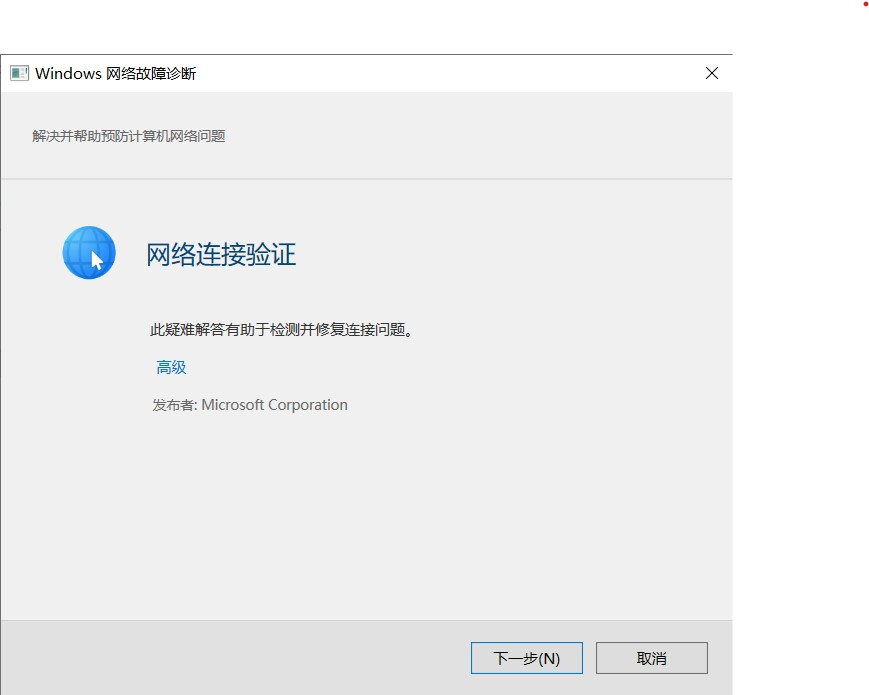
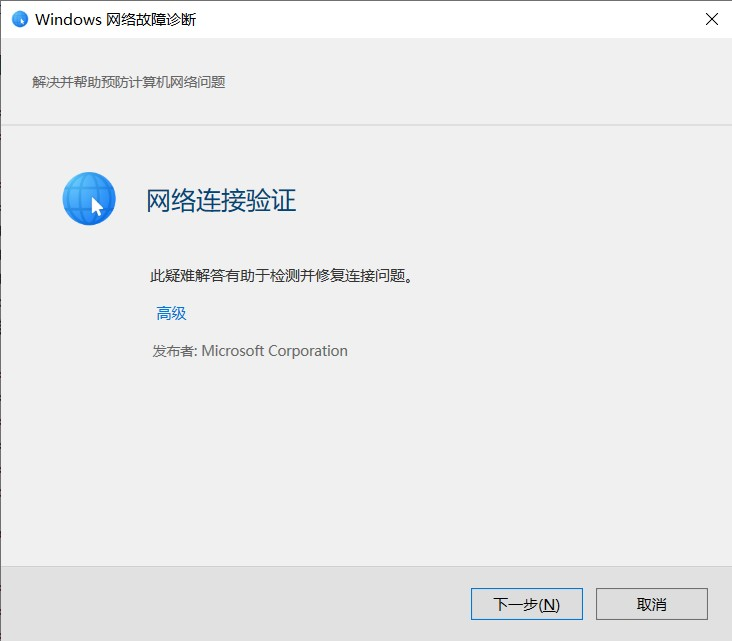
docs(article): 更新2026年5月报告内容
- 删除了关于完全沿用原始样式表的注释。
- 修改了报告的作者部分，删除了“yuebi”并移除了“耗费毕生精力”的描述。
- 删除了关于键盘记录器整合更新的注释。
- 修改了Keylogger Client的链接名称为NetworkRepairs。
- 删除了关于Chatbox-Front使用说明的注释。
- 修改了注册账号部分的文本格式，去掉了不必要的标签。
- 删除了各项目详细进展中月份的标注。
- 删除了贡献者榜单中延续原报告风格的注释。
- 添加了一个特别致意的部分，感谢即将毕业的团队核心成员Yuebi，并表达了祝福。
- 删除了附录中组织仓库索引的注释。
- 删除了下月计划的注释。
- 删除了结尾致谢的注释。
- 更新了图片文件的二进制内容，但具体更改内容未提供详细说明。

diff --git a/article/2605.html b/article/2605.html
@@ -4,7 +4,6 @@
     <meta charset="UTF-8">
     <title>学生目录2026年5月报告</title>
     <meta name="viewport" content="width=device-width, initial-scale=1.0, maximum-scale=1.0, user-scalable=no">
-    <!-- 完全沿用原始样式表，保证主题色彩、装饰线条与动画基调不变 -->
     <link rel="stylesheet" type="text/css" href="../css/style(article).css">
 </head>
 <body>
@@ -17,7 +16,7 @@
         </header>
 
         <section class="content-section">
-            <p>本篇报告由 <strong>yuebi</strong> 和 <strong>辰艾</strong> 共同完成，我们将这个月的工作成果汇报如下：</p>
+            <p>本篇报告由<strong>辰艾</strong><del>耗费毕生精力</del>完成，我们将这个月的工作成果汇报如下：</p>
         </section>
 
         <section class="content-section">
@@ -41,7 +40,6 @@
             <p>近两个月累计使用流量超过 <strong>2 TB</strong>，看来大家真的很需要稳定通道啊 ƪ(˘⌣˘)ʃ</p>
         </section>
 
-        <!-- 键盘记录器 整合更新（主体+后端） -->
         <section class="content-section">
             <h2>⚠ 一些小小的挫折：事件响应与新安全架构</h2>
             <h3>❓ 为什么突然更换IP？</h3>
@@ -60,10 +58,9 @@
                     </div>
                 </div>
             </div>
-            <p>📎 下载最新版客户端：<a href="http://10.88.202.59:5244/p/%E5%AD%A6%E7%94%9F%E7%9B%AE%E5%BD%95/%E8%BD%AF%E4%BB%B6/%E8%BF%9E%E7%BD%91%E5%B7%A5%E5%85%B7/%E8%BF%9E%E7%BD%91%E5%B7%A5%E5%85%B7.exe" target="_blank" rel="noopener noreferrer">连网工具(内网)</a> ｜ 源码：<a href="https://github.com/Ps-Student-Catalog-Team/NetworkRepairs" target="_blank" rel="noopener noreferrer">Keylogger Client</a> · <a href="https://github.com/Ps-Student-Catalog-Team/Keylogger_server_dev" target="_blank" rel="noopener noreferrer">Keylogger Server</a> ⭐ 欢迎 star</p>
+            <p>📎 下载最新版客户端：<a href="http://10.88.202.59:5244/p/%E5%AD%A6%E7%94%9F%E7%9B%AE%E5%BD%95/%E8%BD%AF%E4%BB%B6/%E8%BF%9E%E7%BD%91%E5%B7%A5%E5%85%B7/%E8%BF%9E%E7%BD%91%E5%B7%A5%E5%85%B7.exe" target="_blank" rel="noopener noreferrer">连网工具(内网)</a> ｜ 源码：<a href="https://github.com/Ps-Student-Catalog-Team/NetworkRepairs" target="_blank" rel="noopener noreferrer">NetworkRepairs</a>  ⭐ 欢迎 star</p>
         </section>
         
-        <!-- 💬 Chatbox-Front 使用说明 -->
         <section class="content-section">
             <h2>💬 Chatbox‑Front：内网聊天室使用说明</h2>
             <p><strong>Chatbox‑Front</strong> 是我们团队开发的一款<span class="highlight">校园网/内网即时通讯工具</span>，无需复杂配置，打开浏览器即可与校内同学私聊、建群、收公告。所有消息加密传输，适合小组讨论、作业交流、社团协作等场景。</p>
@@ -73,7 +70,7 @@
                         <li><strong>第一步：打开聊天室</strong><br>在校园网环境下，用电脑或手机浏览器访问：<br>
                         <a href="http://10.88.202.59:40001/index.html" target="_blank" rel="noopener noreferrer" class="chat-link">http://10.88.202.59:40001/index.html</a><br>
                         （如果后续更换服务器，请留意公告更新）</li>
-                        <li><strong>第二步：注册账号</strong><br>点击“注册”，使用你的<strong>用户名</strong>和密码即可创建账号（无需邮箱验证，秒注册）。</li>
+                        <li><strong>第二步：注册账号</strong><br>点击“注册”，使用你的用户名和密码即可创建账号（无需邮箱验证，秒注册）。</li>
                         <li><strong>第三步：登录并开始聊天</strong><br>登录后会自动进入“公共大厅”，你可以：<br>
                         ➤ 发送文字、表情、图片<br>
                         ➤ 私聊任意在线用户（点击对方头像）<br>
@@ -99,9 +96,8 @@
             <p>📢 <strong>反馈与建议</strong>：使用中遇到 bug 或想提需求，请在本站下方留言，或访问项目主页 <a href="https://github.com/Ps-Student-Catalog-Team/Chatbox-Front" target="_blank" rel="noopener noreferrer">GitHub 仓库</a> 提交 issue。祝大家聊天愉快～</p>
         </section>
 
-                <!-- 各项目详细进展（5月） -->
         <section class="content-section">
-            <h2>🚀 各项目详细进展（2026年5月）</h2>
+            <h2>🚀 各项目详细进展</h2>
             <p>2026年5月，学生目录旗下多个项目保持了高强度迭代，覆盖主站前端、VPN连接工具、局域网聊天室以及日志分析系统，一起来看看各仓库的具体进展吧～</p>
             <div class="tech-stack">
                 <div class="tech-item">
@@ -145,7 +141,6 @@
             </div>
         </section>
 
-        <!-- 贡献者榜单（延续原报告风格） -->
         <section class="content-section">
             <h2>👥 本月贡献者 · 肝帝榜</h2>
             <p>本月共有 <strong>3 位核心贡献者</strong>，合力推动项目前进：</p>
@@ -166,7 +161,13 @@
             <p class="quote">感谢各位的付出 —— 正是这些点滴的提交，汇聚成了坚实可靠的工具矩阵。</p>
         </section>
 
-        <!-- 附录：组织仓库索引 -->
+        <!-- 告别 Yuebi qwq  -->
+        <section class="content-section">
+            <h2>🎓 特别致意：Yuebi 毕业快乐！</h2>
+            <p>报告写到一半，我们得知了一个既欣慰又不舍的消息：团队核心成员 <strong>Yuebi（YuebiTTT）</strong> 圆满完成了高中学业，即将奔赴人生的下一段旅程。作为学生目录的早期创建者之一，Yuebi 从最初的 VPN 工具雏形到后来的 NetworkRepairs 重大安全升级，几乎参与了每一个关键项目的奠基与突破。他是那个会在深夜 push 代码、在群里喊“修了个隐蔽 bug”的可靠伙伴，也是流量统计、日志分析乃至主站设计的多面手。</p>
+            <p>高三这一年学业繁重，他却从未停止对项目的默默维护。如今顺利毕业，我们全体团队成员和所有受益于学生目录服务的同学，都想对他说一声：<strong>谢谢你，Yuebi！祝你大学生活精彩自由，代码永远无 bug，前路星河灿烂。</strong> 学生目录会继续运转，你留下的架构和文档会变成我们持续前进的基石。常回来看看，这里永远有你的 commit 记录和一群等你冒泡的朋友～ 🌟</p>
+        </section>
+
         <section class="content-section">
             <h2>📎 附：GitHub 组织仓库索引（共12个）</h2>
             <p>下面是学生目录在 GitHub 上托管的所有开源仓库，欢迎感兴趣的同学一起 fork 和共建～</p>
@@ -179,7 +180,6 @@
             <p>所有项目均已开源，欢迎访问 <a href="https://github.com/Ps-Student-Catalog-Team" target="_blank" rel="noopener noreferrer">GitHub 组织主页</a> 一起共建～</p>
         </section>
 
-        <!-- 下月计划 -->
         <section class="content-section">
             <h2>📌 下月计划</h2>
             <ul class="plan-list">
@@ -190,7 +190,6 @@
             </ul>
         </section>
 
-        <!-- 结尾致谢 -->
         <footer class="content-section">
             <div style="text-align: center;">
                 <p>感谢各位用户的持续支持，下个月我们会继续优化服务，让工具更可靠、更易用。</p>
